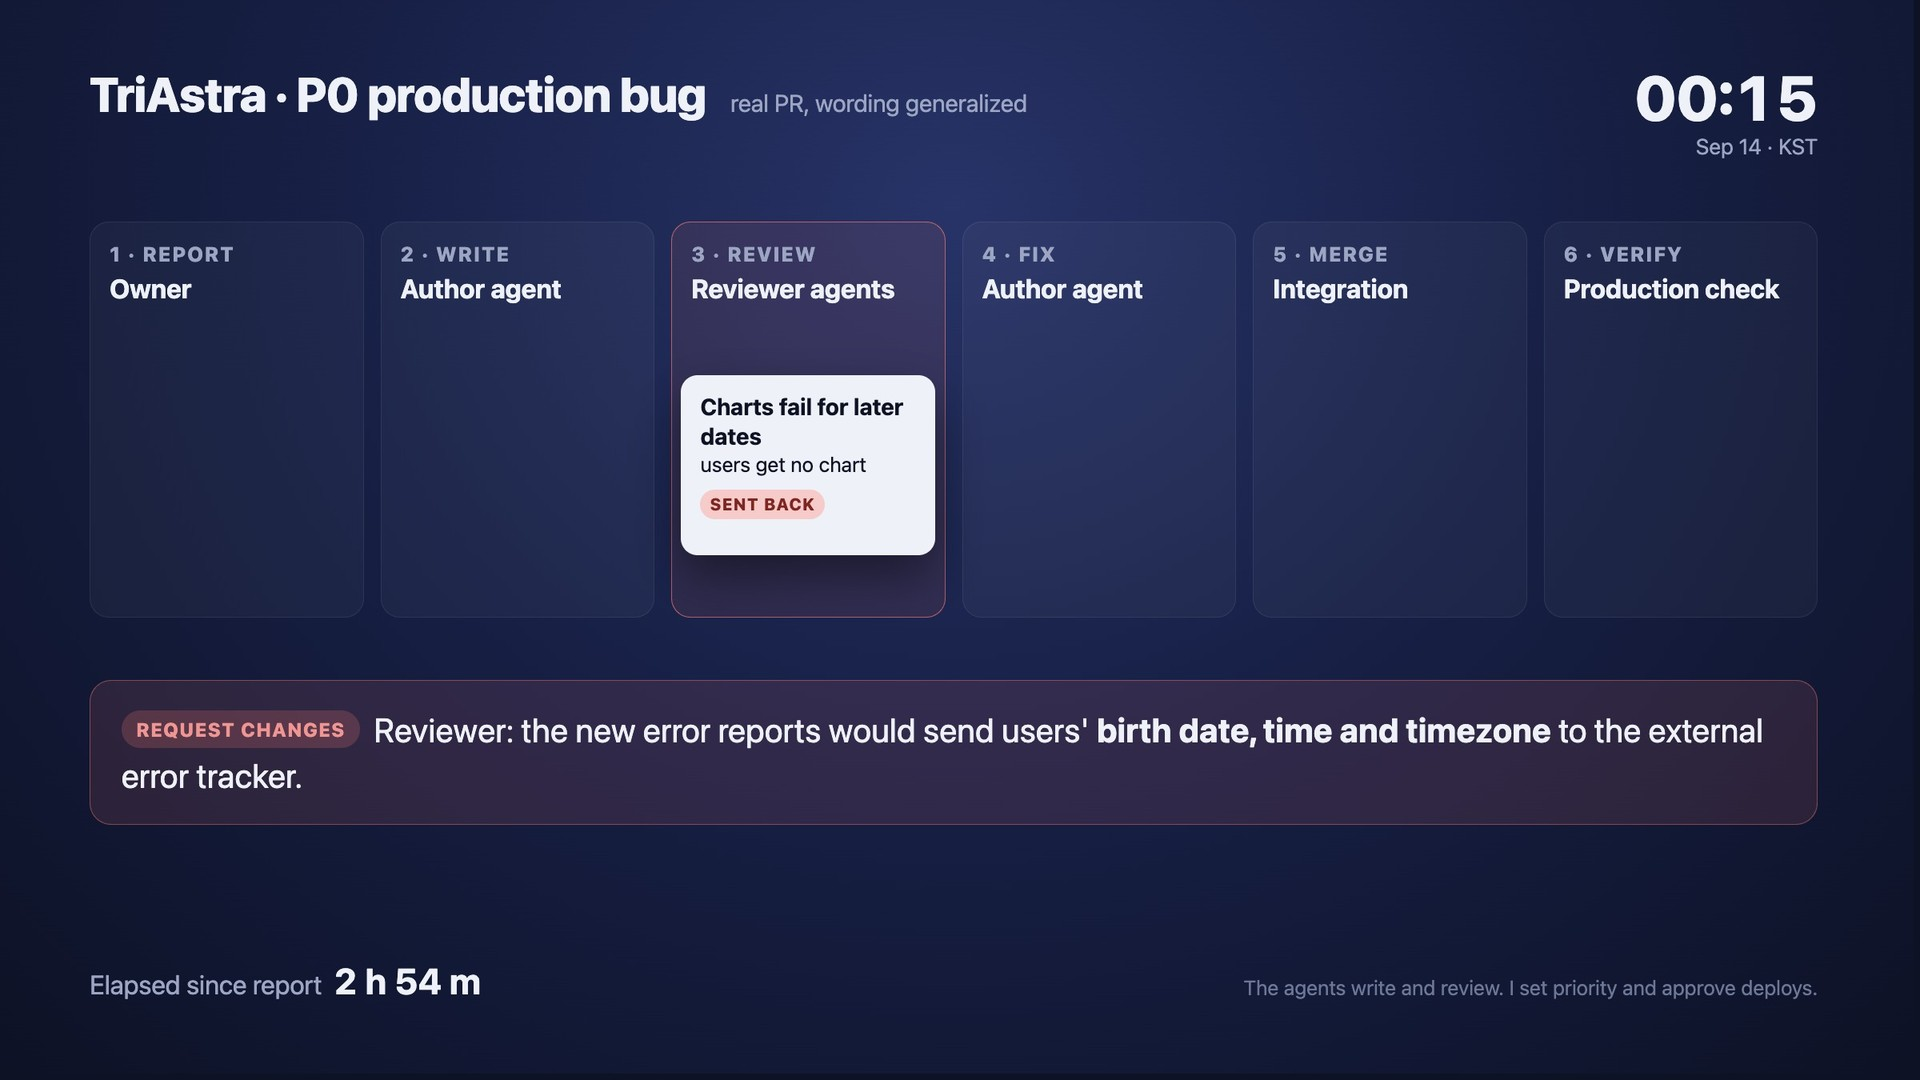
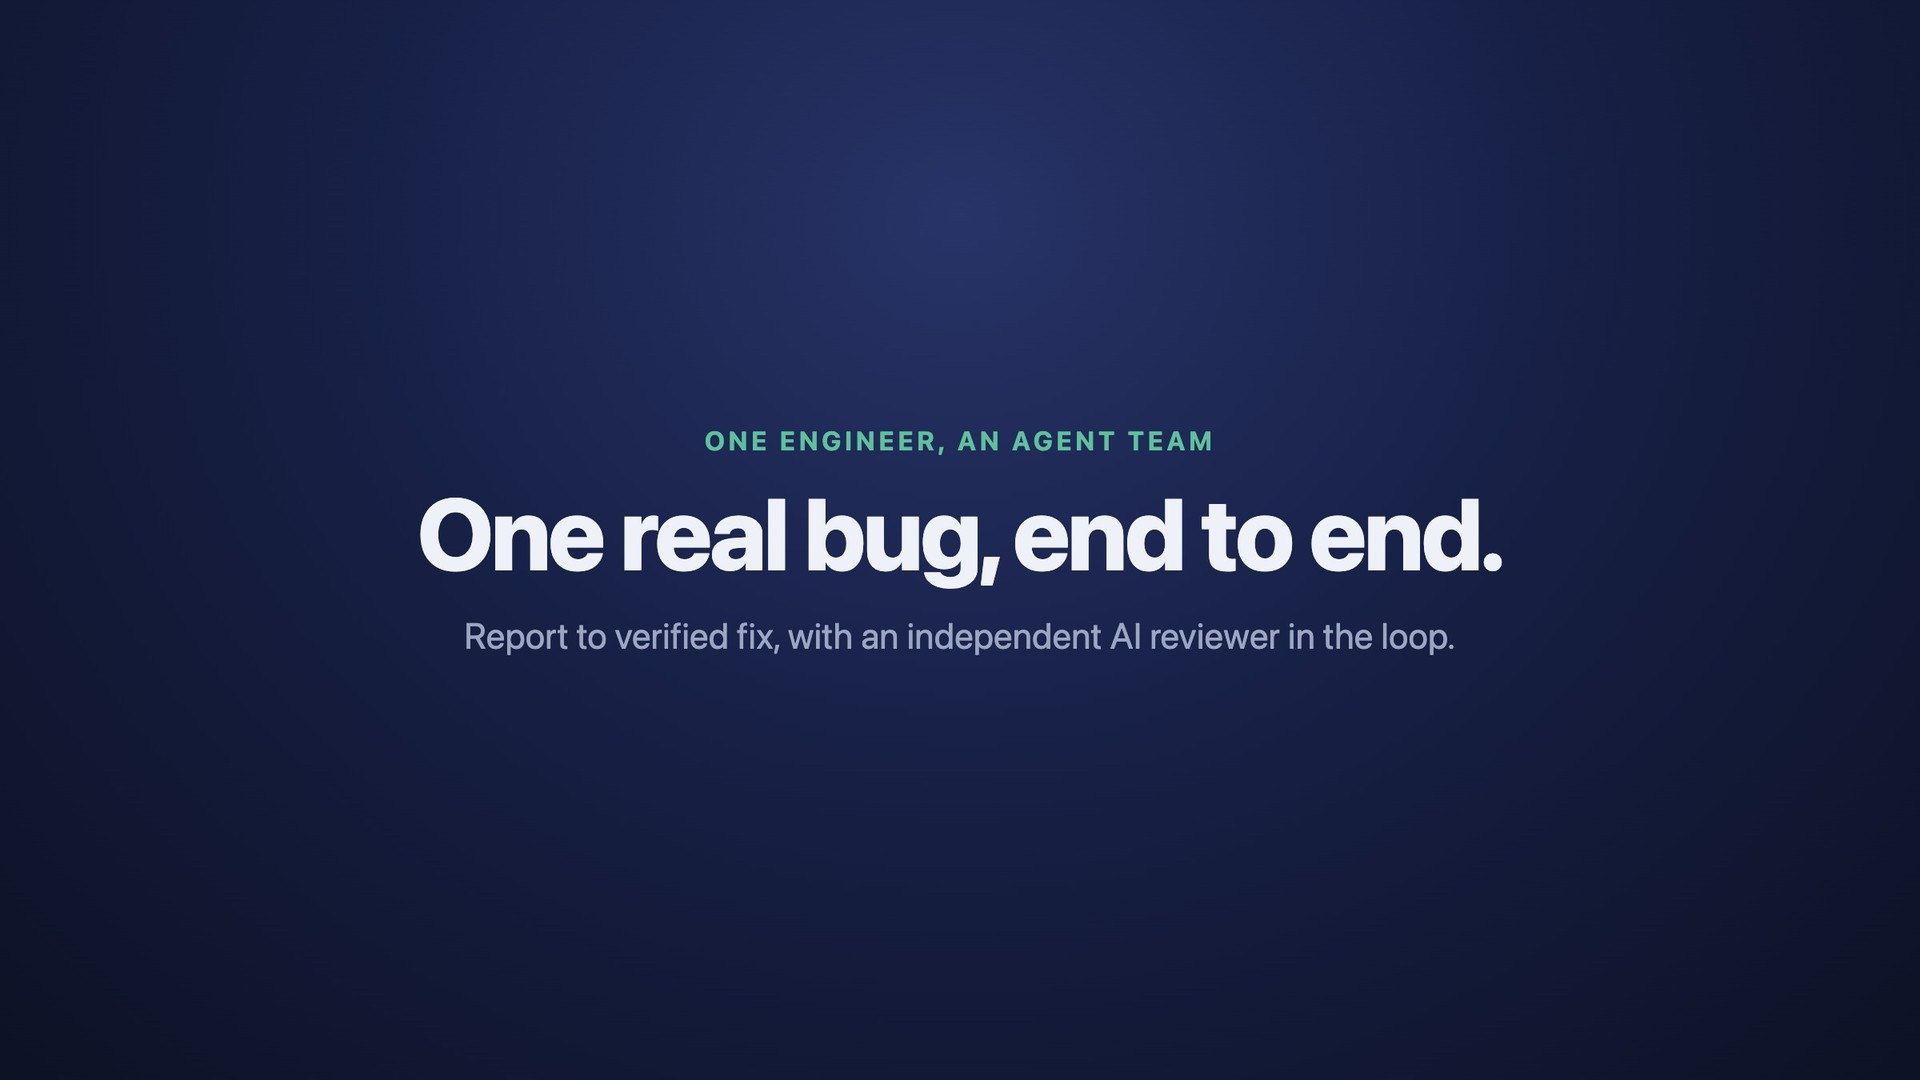
Revised video and review card

diff --git a/index.html b/index.html
@@ -128,10 +128,10 @@
 
 
   <section class="watch" id="watch">
-    <h2>Watch: one real bug, end to end (30 s)</h2>
-    <p class="sub">A P0 production bug, an author agent, independent read-only reviewer agents that blocked a privacy leak, the fix, merge, and next-day production verification. Real timestamps, wording generalized.</p>
+    <h2>Watch: one real bug, end to end (39 s)</h2>
+    <p class="sub">A release-blocking production bug, an author agent, a read-only reviewer agent in a separate session that kept personal data out of error reports, the fix, merge, and next-day production verification. Real timestamps, wording generalized.</p>
     <video controls muted playsinline loop autoplay preload="metadata" poster="agent-loop-poster.jpg">
-      <source src="agent-loop-30s.mp4" type="video/mp4">
+      <source src="agent-loop.mp4" type="video/mp4">
     </video>
   </section>
 
@@ -275,7 +275,7 @@
     <h2>The evidence, as images</h2>
     <p class="sub">Built from the repository's own config, rules and GitHub history. Private repo: wording generalized, no source code.</p>
     <div class="gal">
-      <figure><a href="review-catch.png"><img src="review-catch.png" alt="Reviewer agent blocked a privacy leak before merge" loading="lazy"></a><figcaption><b>Review that bites.</b> A reviewer agent blocked a fix that would have sent users' birth details to the error tracker; fixed with a regression test in 1 h 16 m.</figcaption></figure>
+      <figure><a href="review-catch.png"><img src="review-catch.png" alt="A separate reviewer agent kept personal data out of error reports before merge" loading="lazy"></a><figcaption><b>Independent review, before merge.</b> A separate reviewer agent kept personal data out of error reports; fixed with a regression test in 1 h 16 m.</figcaption></figure>
     </div>
   </section>
 

diff --git a/README.md b/README.md
@@ -1,8 +1,8 @@
 # One Engineer, an Agent Team: How I Ship a Production Product with AI Agents
 
-[![Watch: one real bug, end to end in 30 seconds](./agent-loop-poster.jpg)](https://mg-mg-mg.github.io/agentic-engineering/#watch)
+[![Watch: one real bug, end to end in 39 seconds](./agent-loop-poster.jpg)](https://mg-mg-mg.github.io/agentic-engineering/#watch)
 
-▶ **[Watch the 30-second video](https://mg-mg-mg.github.io/agentic-engineering/#watch)**: a P0 bug, independent reviewer agents that blocked a privacy leak, the fix, merge and production verification. Real timestamps, wording generalized.
+▶ **[Watch the 39-second video](https://mg-mg-mg.github.io/agentic-engineering/#watch)**: a release-blocking bug, a separate reviewer agent that kept personal data out of error reports, the fix, merge and production verification. Real timestamps, wording generalized.
 
 ![Replay: Issue #499 to production in about two hours, every step by agents except two owner approvals](./agentic-replay.gif)
 
@@ -119,6 +119,6 @@ Contact: coalsrbs7@gmail.com · GitHub [mg-mg-mg](https://github.com/mg-mg-mg)
 
 Built from the repository's own config, rules and GitHub history. Private repo: wording generalized, no source code.
 
-![Review that bites](./review-catch.png)
+![Independent review, before merge](./review-catch.png)
 
-**Review that bites**: a reviewer agent blocked a privacy leak before merge.
+**Independent review, before merge**: a separate reviewer agent kept personal data out of error reports.
